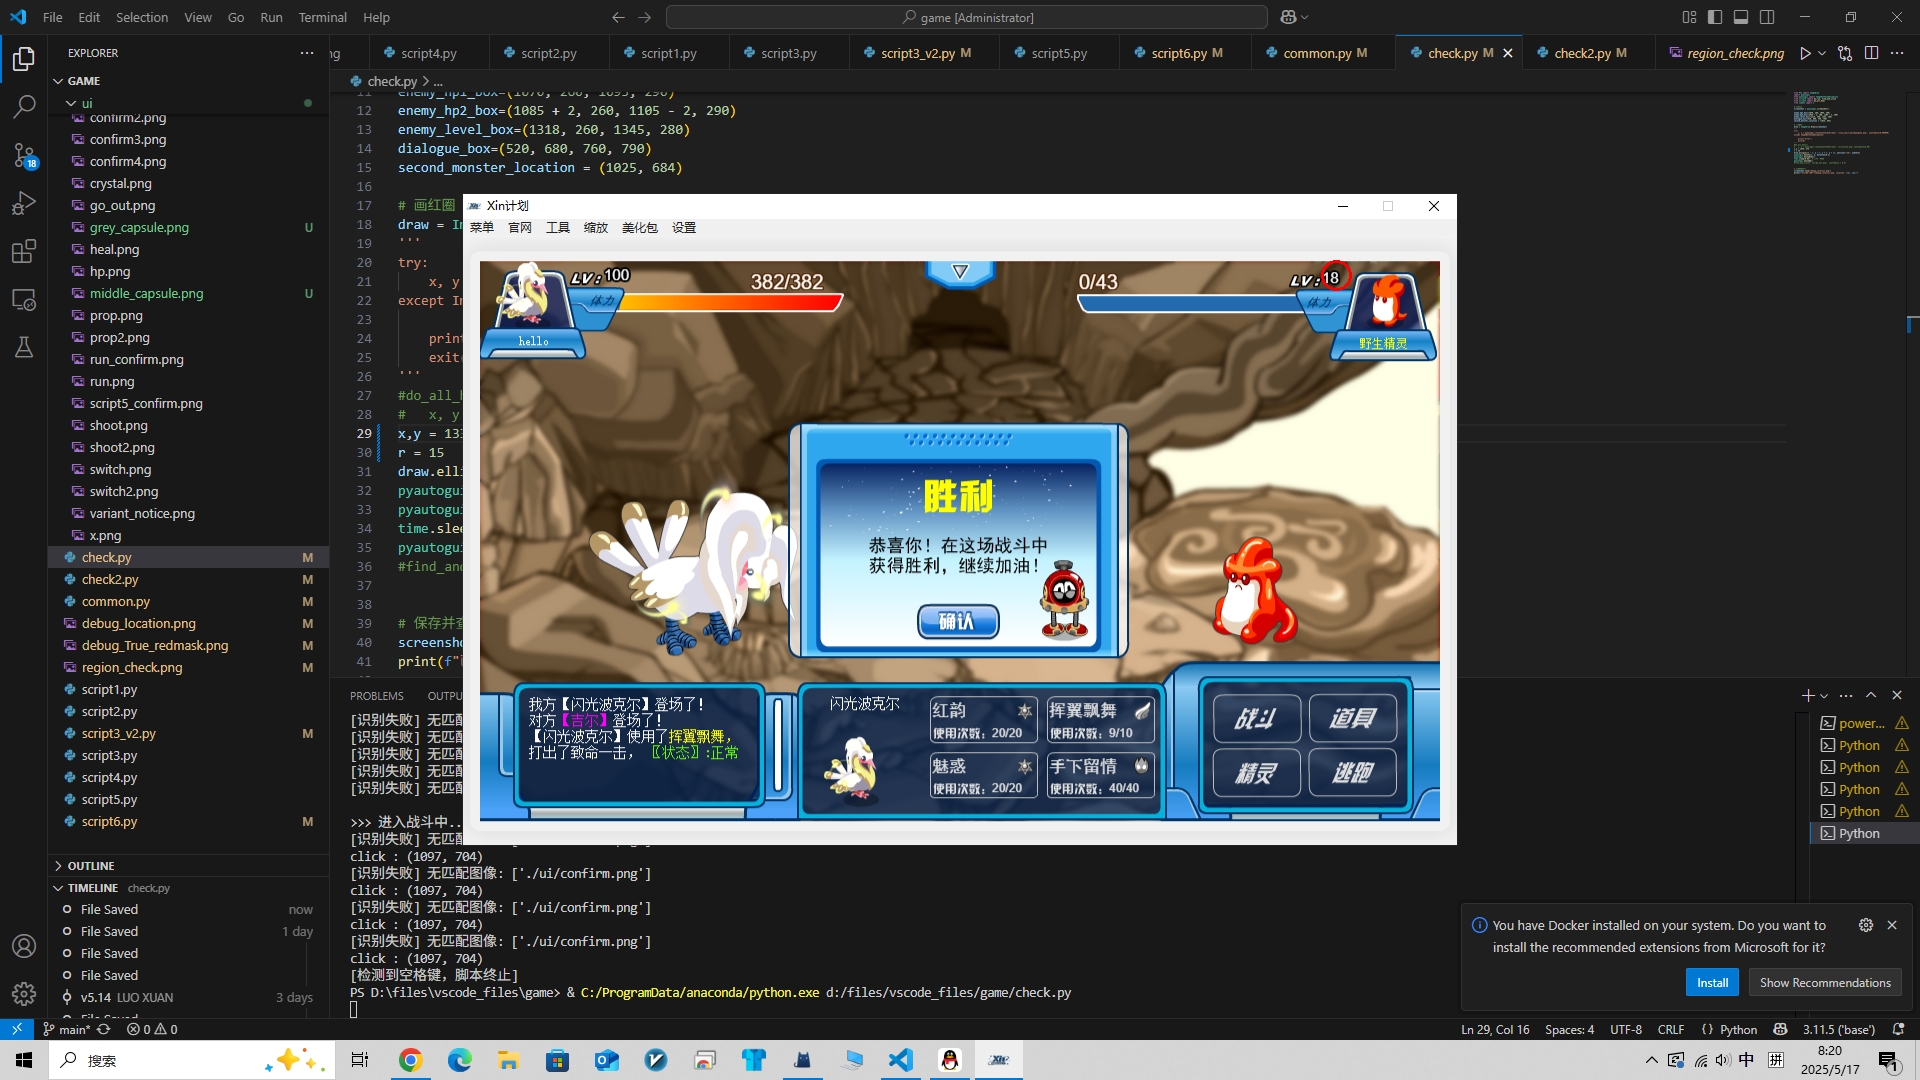
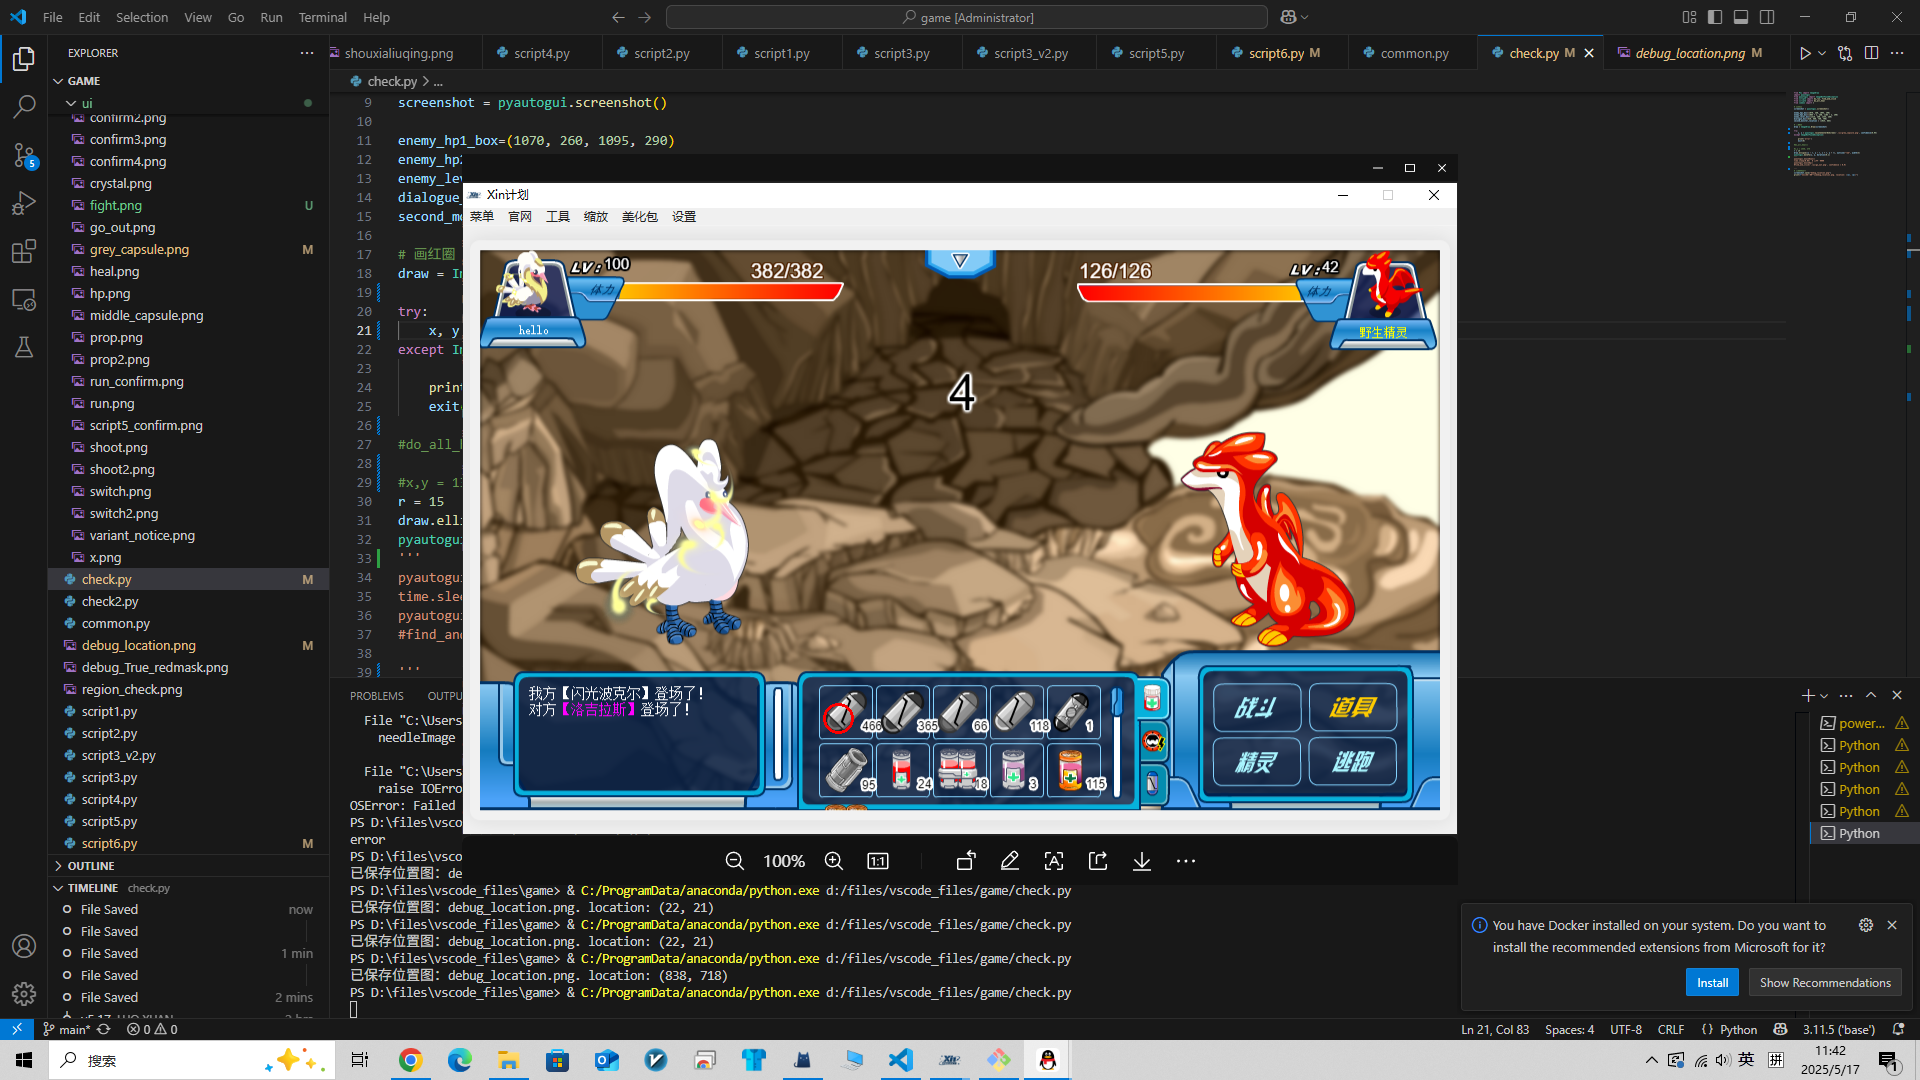
catch

diff --git a/script6.py b/script6.py
@@ -16,8 +16,11 @@ def do_catch():
     find_and_click("./ui/go_out.png", confidence=0.9)
     time.sleep(3)
 
+    catch_count = 0
+
     while not find_and_click('./ui/catch_confirm.png', confidence=0.7):
-        while not find_and_click('./ui/capsule.png', confidence=0.99): 
+        
+        while not (find_image('./ui/capsule.png', confidence=0.99) or find_image('./ui/grey_capsule.png', confidence=0.95)): 
             while not (find_and_click("./ui/prop.png", confidence=0.9) or find_and_click("./ui/prop2.png", confidence=0.9)):
                 if keyboard.is_pressed('space'):
                     print("[检测到空格键，脚本终止]")
@@ -26,10 +29,19 @@ def do_catch():
             pyautogui.mouseDown()
             time.sleep(0.05)  # 停留一点点
             pyautogui.mouseUp()
-        pyautogui.mouseDown()
+        
+        if find_image('./ui/capsule.png', confidence=0.99):
+            if catch_count % 3 == 0:
+                find_and_click('./ui/middle_capsule.png', confidence=0.99)
+            else:
+                find_and_click('./ui/capsule.png', confidence=0.99)
+        else:
+            find_and_click('./ui/fight.png', confidence=0.99)
+            do_fight()
         time.sleep(0.05)  # 停留一点点
-        pyautogui.mouseUp()
-        time.sleep(5)
+    
+    catch_count += 1
+
 
 def main():
     count = 1 
@@ -84,8 +96,9 @@ def main():
             percect = monster_info['perfect?']
             dialogue = monster_info['dialogue']
 
-            if percect or dialogue:
-            #if dialogue:
+            #if percect or dialogue:
+            if dialogue:
+            #if 1 == 1:
                 do_catch()
             else:
                 do_fight()

diff --git a/check.py b/check.py
@@ -16,26 +16,27 @@ second_monster_location = (1025, 684)
 
 # 画红圈
 draw = ImageDraw.Draw(screenshot)
-'''
+
 try:
-    x, y = pyautogui.locateCenterOnScreen('./lisa_skill/yelvguangshu.png', confidence=0.999999)
+    x, y = pyautogui.locateCenterOnScreen('./ui/grey_capsule.png', confidence=0.95)
 except ImageNotFoundException:
     
     print('error')
     exit(0)
-'''
+
 #do_all_heal()
-#   x, y = pyautogui.locateCenterOnScreen('./ui/switch.png',confidence=0.99)
-x,y = 1336, 275
+
+#x,y = 1336, 275
 r = 15
 draw.ellipse((x - r, y - r, x + r, y + r), outline="red", width=3)
 pyautogui.moveTo(x, y, duration=0.1)
+'''
 pyautogui.mouseDown()
 time.sleep(0.05)  # 停留一点点
 pyautogui.mouseUp()
 #find_and_click('./ui/go_out.png', confidence = 0.9)
 
-
+'''
 # 保存并查看
 screenshot.save("debug_location.png")
 print(f"已保存位置图：debug_location.png. location: ({x}, {y})")
